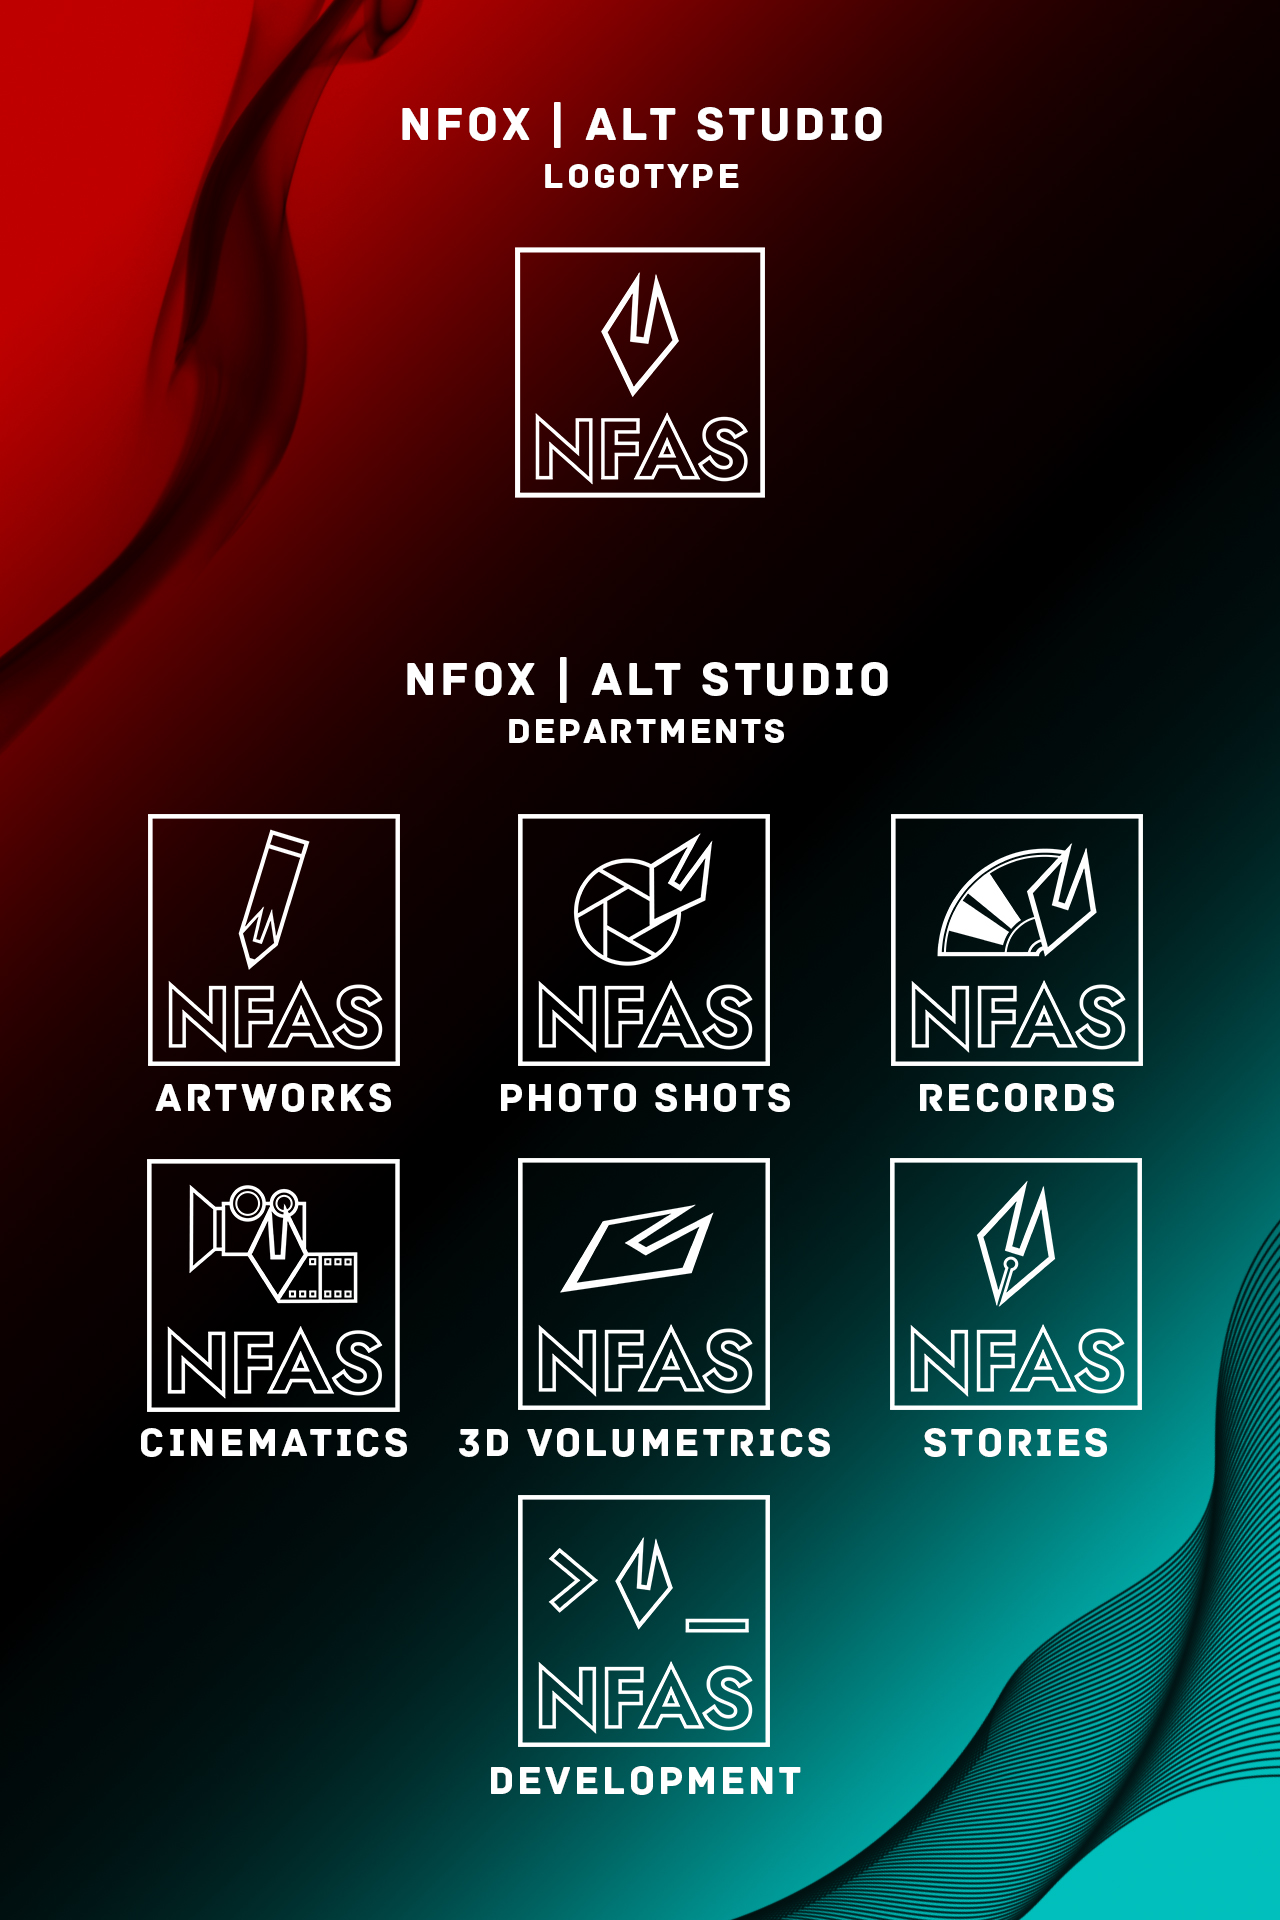
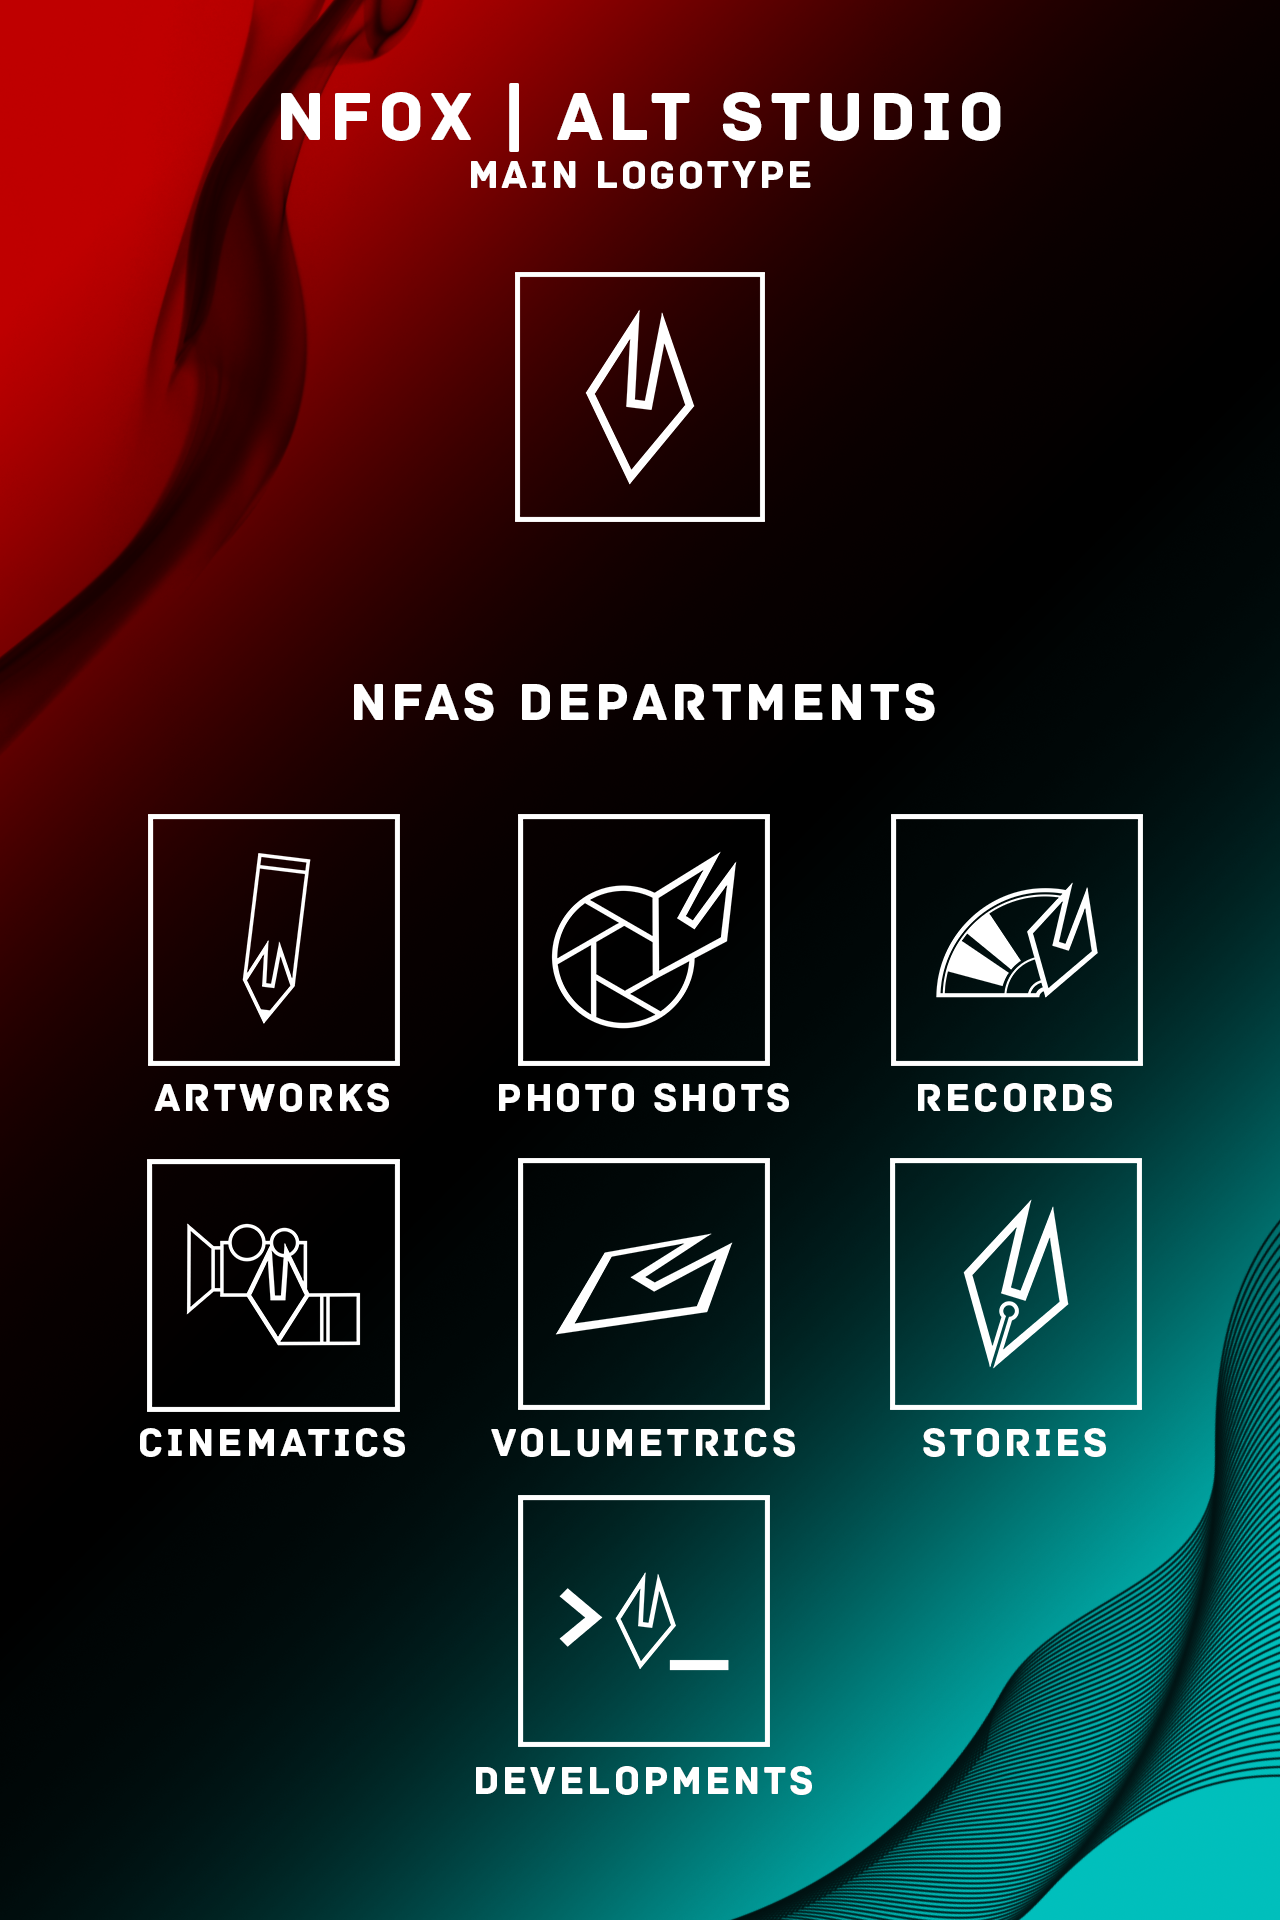
V1.0.5 | update departments.png and "lightbox" for copyright.html

diff --git a/pages/docs/copyright.html b/pages/docs/copyright.html
@@ -31,6 +31,7 @@
 		<link rel="stylesheet" href="/css/fonts.css">
 		<link rel="stylesheet" href="/css/adaptive.css">
 		<link rel="stylesheet" href="/css/anim.css">
+		<link rel="stylesheet" href="/css/lightbox.css">
 		<link rel="preload" as="image" href="/media/img/bg/bg1.jpg">
 		<noscript>
 			<style>
@@ -292,6 +293,7 @@
 		</div>
 		<script src="/js/site-config.js"></script>
 		<script src="/js/scroll-bg.js"></script>
+		<script src="/js/lightbox.js"></script>
 		<!-- ПОДВАЛ -->
 		<footer>
 			<div id="text_footer"></div>
